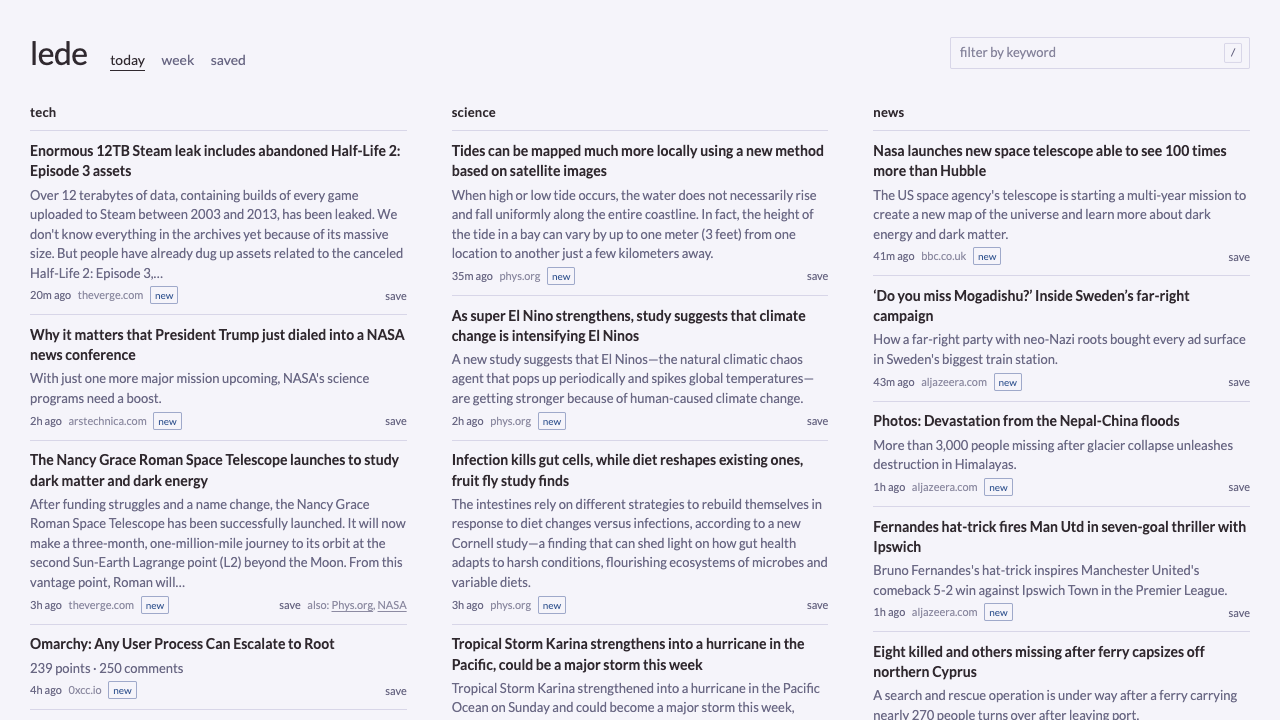
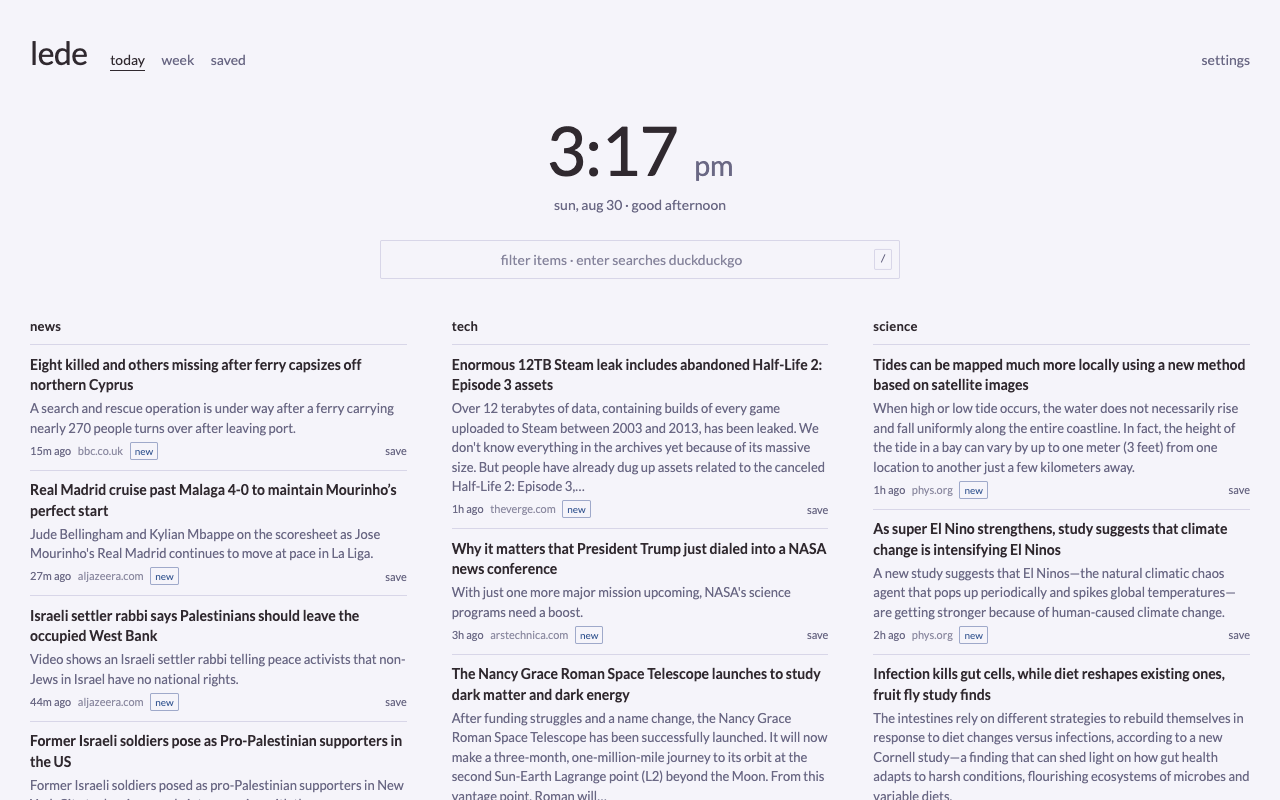
README: homepage showcase — light/dark/settings/week/mobile screenshots

diff --git a/README.md b/README.md
@@ -11,7 +11,32 @@ sections you define, deduped across sources, with optional summaries from a
 local LLM. No accounts, no tracking, no algorithmic feed — your sources,
 newest first, rebuilt every 30 minutes.
 
-![lede today board](docs/screenshot.png)
+It's built to be your **browser homepage**: a clock and web search up top,
+your news below, settings that live in the browser. One container, or host
+the frontend anywhere.
+
+![lede today board: clock, search, and the day's news in sections](docs/screenshot.png)
+
+## Built to be your homepage
+
+| | |
+|---|---|
+| ![dark mode and the settings panel](docs/settings.png) | ![the week view, grouped by day](docs/week.png) |
+
+**Clock, date, and a quiet greeting** sit up top — the page you open fifty
+times a day should tell you what time it is. **One search box does both
+jobs**: typing filters the news below, Enter takes the query to your search
+engine (DuckDuckGo, Google, Bing, Kagi, or Brave). The **settings panel**
+covers theme (system/light/dark), 12/24-hour clock, default tab, empty
+sections, and engine choice — all stored in the browser, never on your
+server.
+
+| | |
+|---|---|
+| ![dark mode](docs/dark.png) | ![on a phone](docs/mobile.png) |
+
+Dark mode follows your system or pins via settings; the whole thing collapses
+to a single column on a phone.
 
 ## Features
 
@@ -22,6 +47,8 @@ newest first, rebuilt every 30 minutes.
   the last 7 days.
 - **Saved list** — browser-local read-later list with CSV export. No server
   round-trips, no tokens.
+- **Homepage furniture** — clock + date + greeting, dual-duty search box,
+  theme override, all from the settings panel.
 - **Dedup across sources** — the same story from an aggregator and its origin
   collapses to one entry (origin wins); other coverage appears as "also:"
   links.
@@ -157,6 +184,8 @@ localhost, `reader.js` targets `localhost:8000` automatically.
 index.html reader.js reader.css fonts/   # the whole frontend — no build step
 feeds.example.yaml  .env.example         # copy these; the copies are gitignored
 docker-compose.yml                       # the quickstart
+docs/                                    # README screenshots
+PRODUCT.md DESIGN.md                     # design context for AI tooling (impeccable)
 backend/                                 # the digest app (see backend/README.md)
   app.py           # build loop + FastAPI server
   fetch.py         # feed fetching, discovery, normalization
